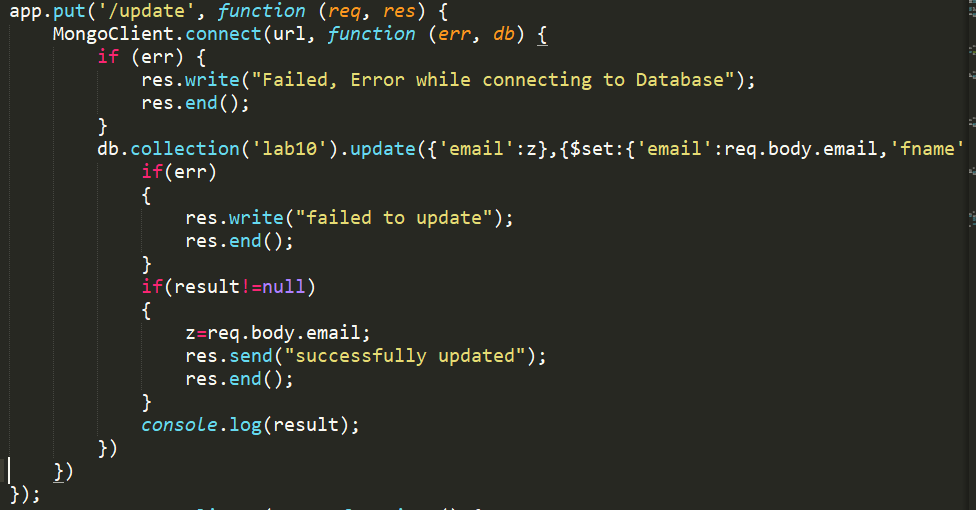
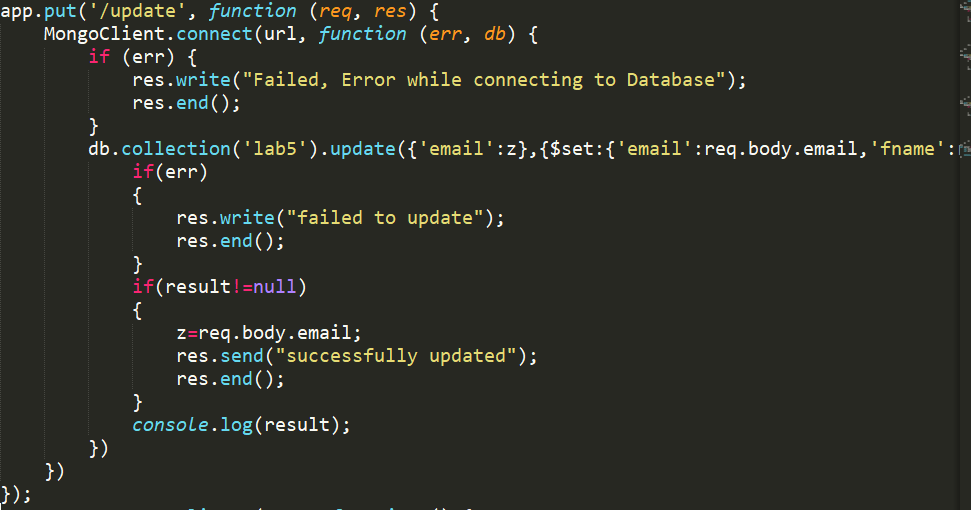
updated

diff --git a/source/JS/mongo.js b/source/JS/mongo.js
@@ -37,7 +37,7 @@ app.post('/register', function (req, res) {
 });
 
 var insertDocument = function(db, data, callback) {
-    db.collection('lab10').insertOne( data, function(err, result) {
+    db.collection('lab5').insertOne( data, function(err, result) {
         if(err)
         {
             res.write("Registration Failed, Error While Registering");
@@ -55,7 +55,7 @@ app.get('/signin', function (req, res,next) {
             res.end();
         }
         z = req.query.email;
-        db.collection('lab10', function (err, collection) {
+        db.collection('lab5', function (err, collection) {
             collection.findOne({'email': z}, function (err, item) {
                 if (err) {
                     res.write("failed to validate");
@@ -79,7 +79,7 @@ app.get('/userDetails',function (req,res,next) {
             res.write("Failed, Error while connecting to Database");
             res.end();
         }
-        db.collection('lab10',function (err,collection) {
+        db.collection('lab5',function (err,collection) {
             collection.findOne({'email':z},function (err,item) {
                 if(err)
                 {
@@ -102,7 +102,7 @@ app.put('/update', function (req, res) {
             res.write("Failed, Error while connecting to Database");
             res.end();
         }
-        db.collection('lab10').update({'email':z},{$set:{'email':req.body.email,'fname':req.body.fname,'lname':req.body.lname}}, function (err, result) {
+        db.collection('lab5').update({'email':z},{$set:{'email':req.body.email,'fname':req.body.fname,'lname':req.body.lname}}, function (err, result) {
             if(err)
             {
                 res.write("failed to update");
